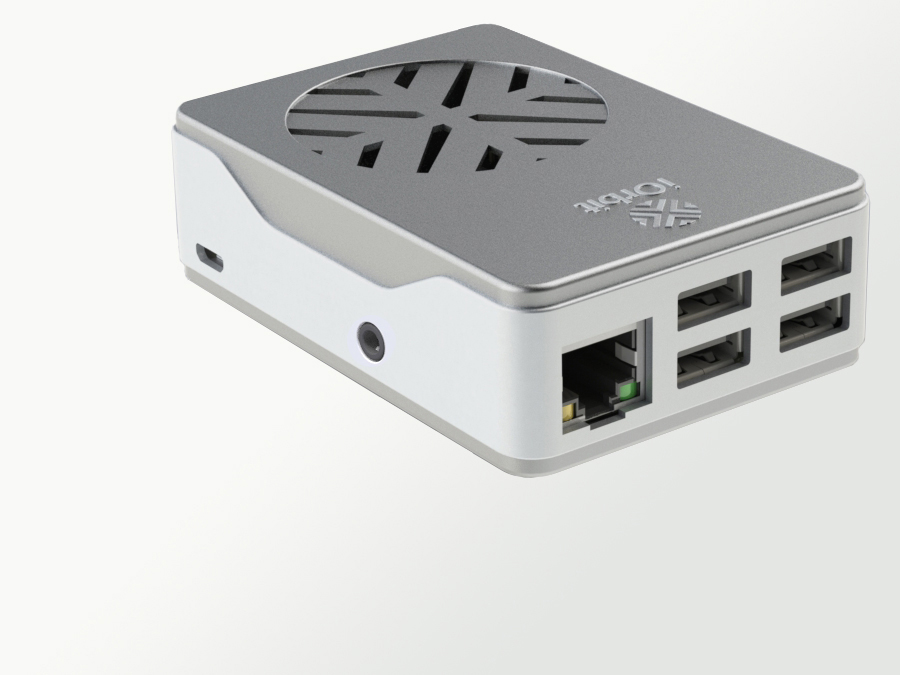
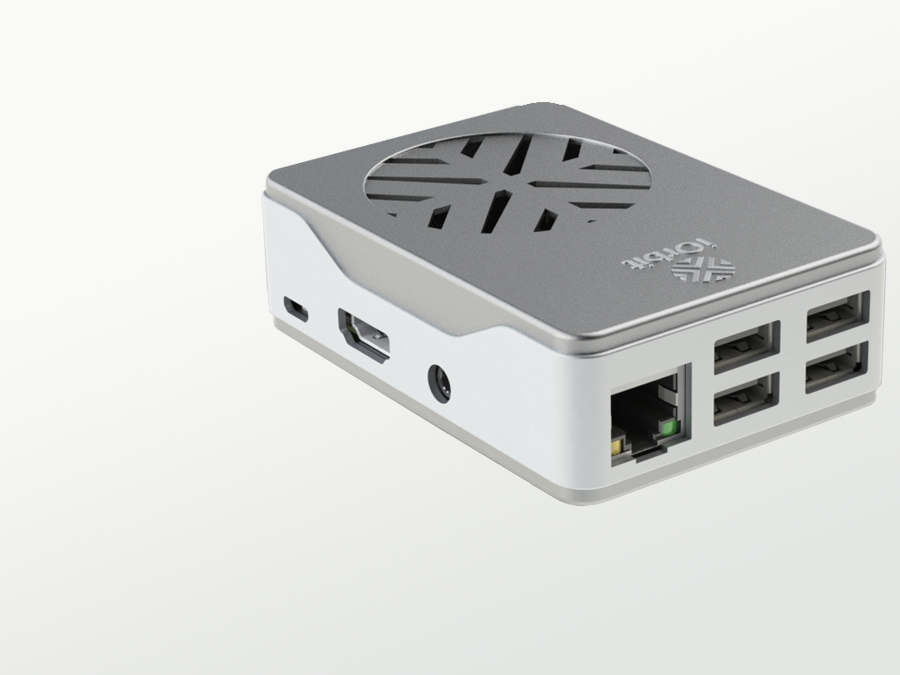
updated new images

Changed region(s): [[0.1867, 0.0311, 0.9956, 0.7467], [0.1867, 0.3422, 0.2489, 0.4356], [0.5911, 0.3111, 0.6222, 0.3422]]

diff --git a/white-labelled-designs.html b/white-labelled-designs.html
@@ -399,7 +399,7 @@
             <div class="row image-text-img" data-aos="fade-up" data-aos-duration="3000" data-aos-offset="0"
                 id="quick_1017">
                 <div class="col-12 col-sm-12 col-md-10 col-lg-10 col-xl-10   "><img
-                        src="img/white-labled-designs/itrack.jpg"></div>
+                        src="img/white-labled-designs/iTrackV.jpg"></div>
             </div>
             <div class="row image-text-text">
                 <div class="col d-flex justify-content-end">
